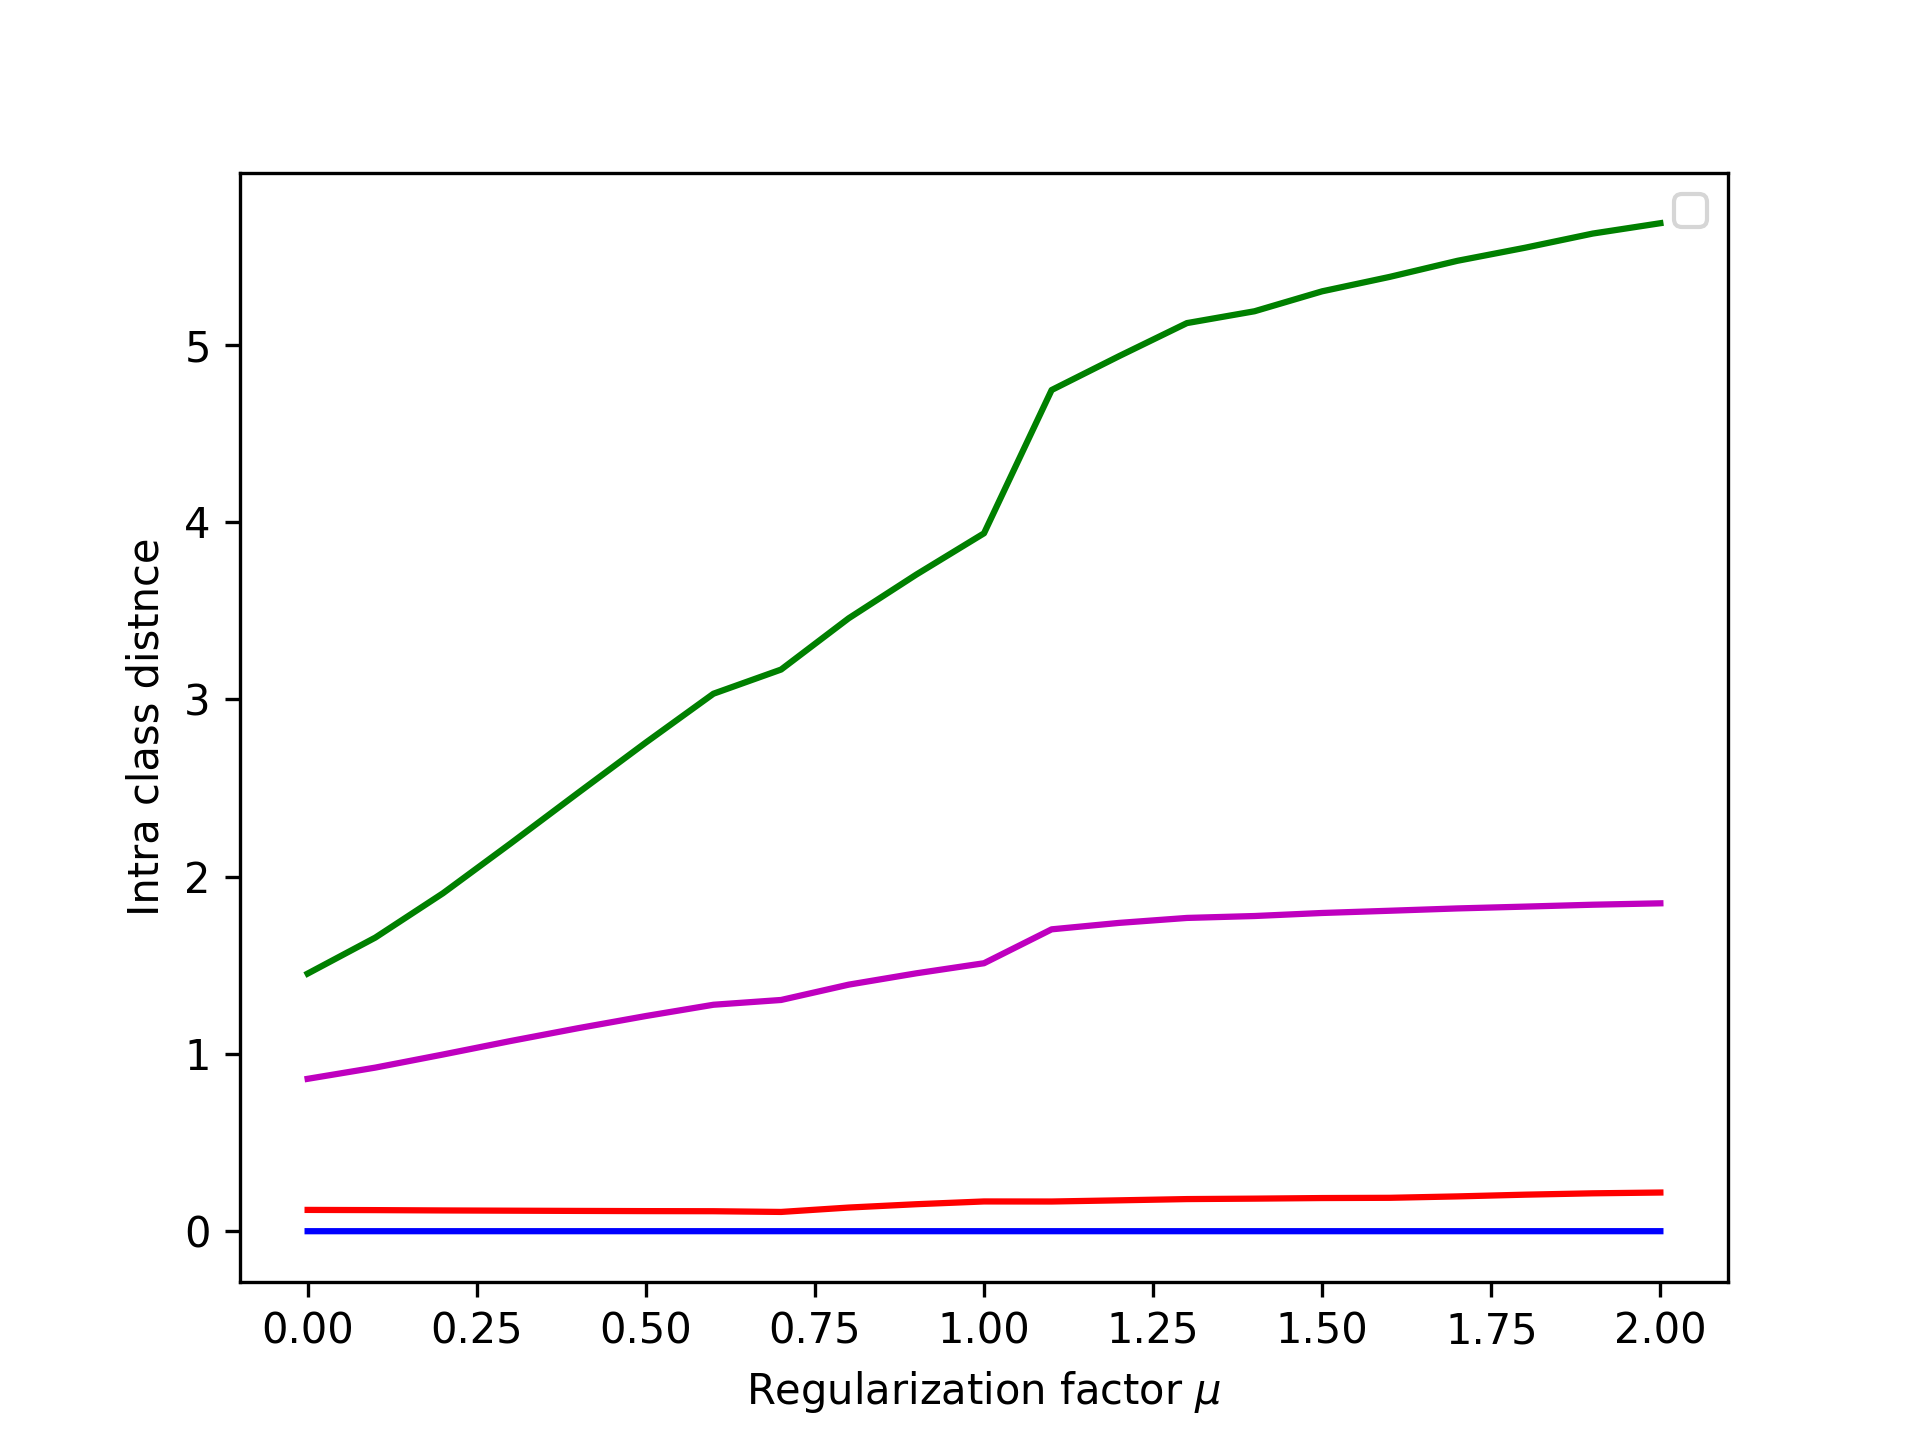
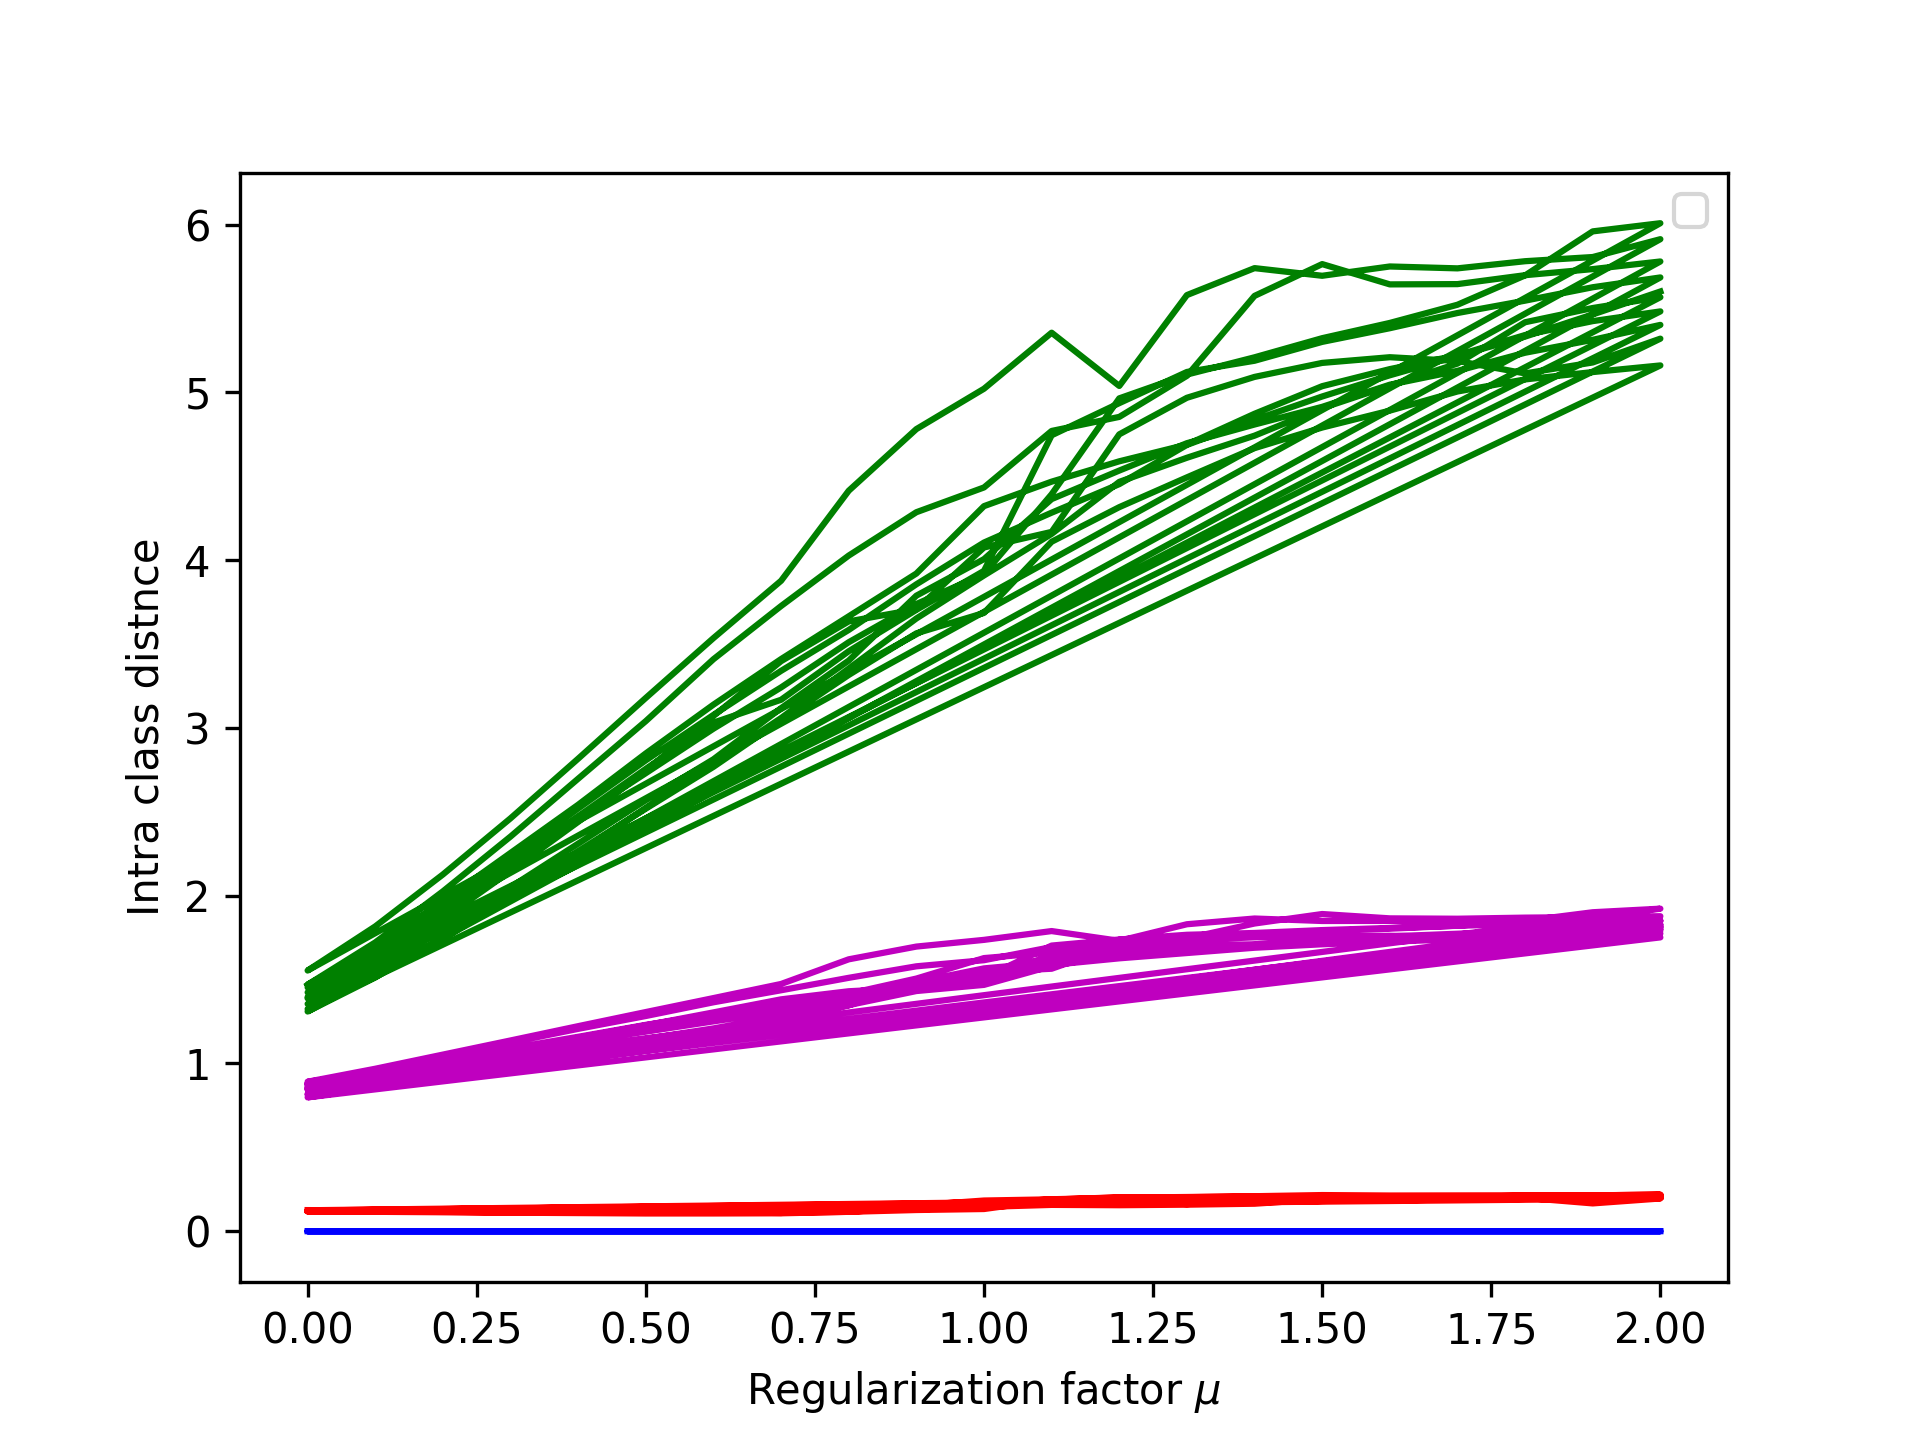
change reg_mask in icd_on_mu

diff --git a/src/experiments/icd_on_mu.py b/src/experiments/icd_on_mu.py
@@ -40,7 +40,8 @@ data = dataset[0].to(device)
 
 A_hat = compute_a_hat(data)
 
-data.reg_mask = torch.ones_like(data.train_mask, dtype=torch.bool)
+# data.reg_mask = torch.ones_like(data.train_mask, dtype=torch.bool)
+data.reg_mask = data.train_mask
 
 print('-------------------------------------------------------------')
 print(f'train size: {data.train_mask.sum()}')
